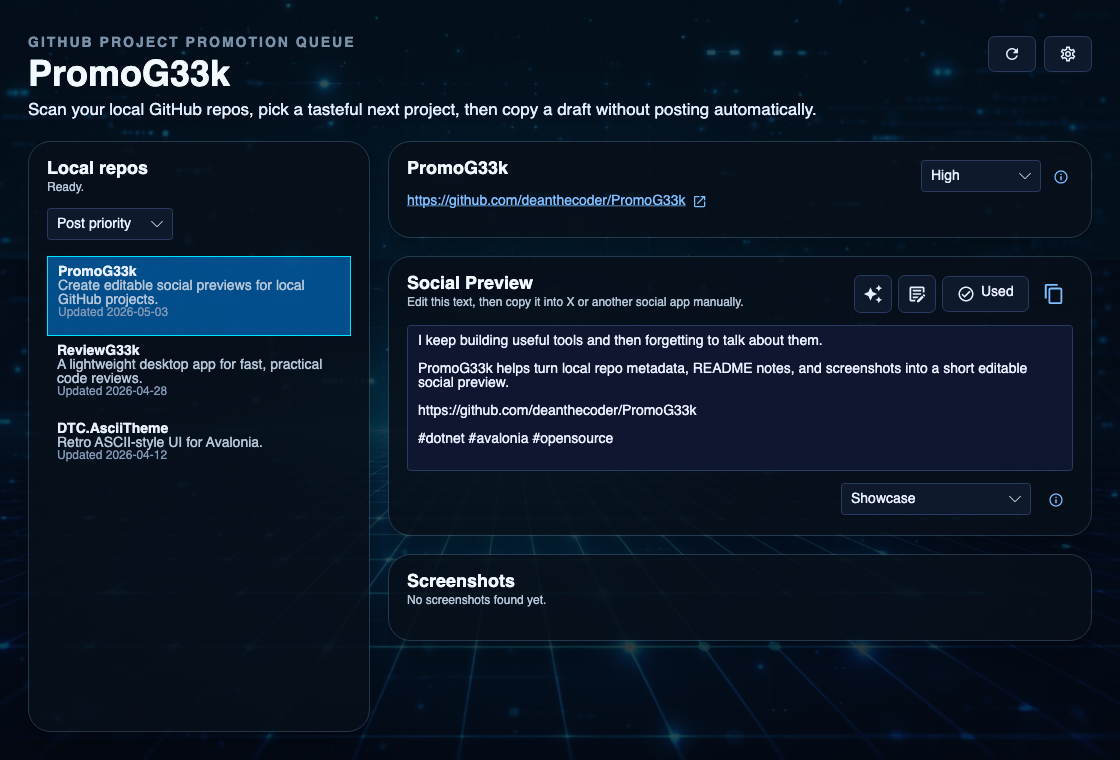
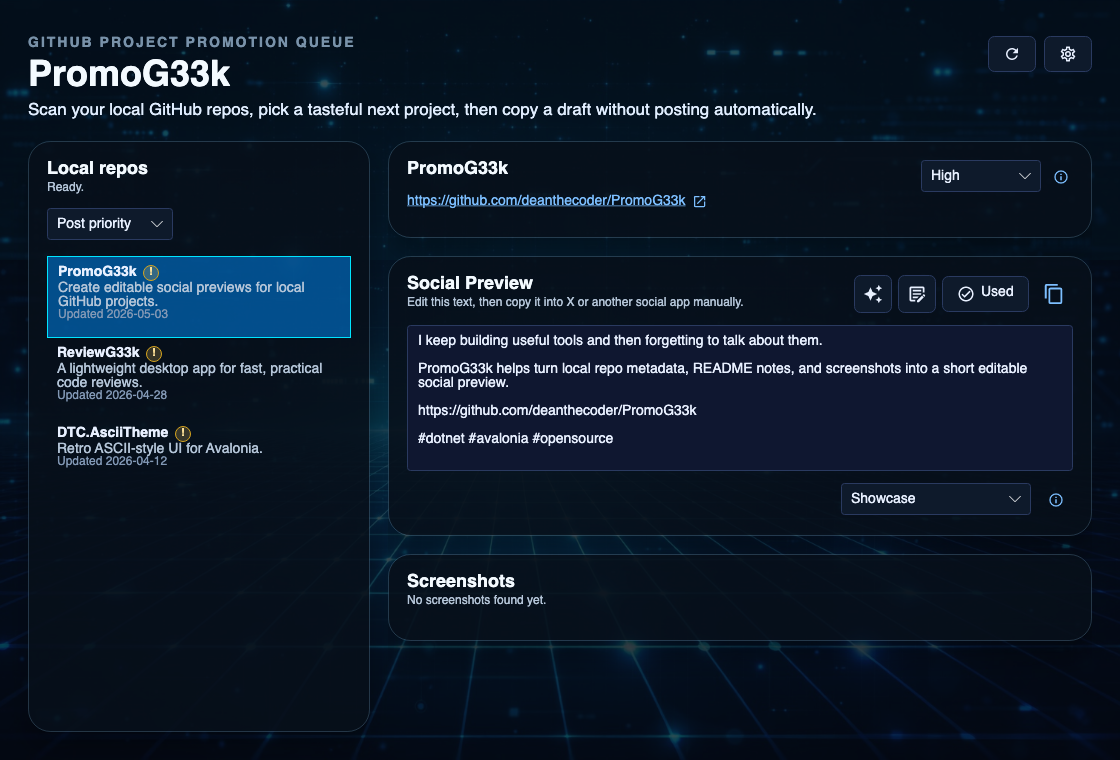
Feature: Add readiness warnings.
We check for missing/empty README, no license, etc.

Changed region(s): [[0.0312, 0.3329, 0.3125, 0.6355]]

diff --git a/PromoG33k.Tests/LocalRepositoryScannerTests.cs b/PromoG33k.Tests/LocalRepositoryScannerTests.cs
@@ -46,6 +46,7 @@ public class LocalRepositoryScannerTests
                 - Review Bitbucket pull requests.
                 - Review local committed changes.
                 ![Main window screenshot](img/ReviewG33k.png)
+                Licensed under the MIT License.
                 """);
             File.WriteAllText(Path.Combine(repositoryDirectory.FullName, "Program.cs"), "class Program { }");
             File.WriteAllText(
@@ -71,6 +72,10 @@ public class LocalRepositoryScannerTests
             Assert.That(
                 repositories[0].ReadmeHighlights,
                 Is.EqualTo(new[] { "Review Bitbucket pull requests.", "Review local committed changes." }));
+            Assert.That(repositories[0].HasReadme, Is.True);
+            Assert.That(repositories[0].ReadmeMentionsLicense, Is.True);
+            Assert.That(repositories[0].IsEmptyRepository, Is.False);
+            Assert.That(repositories[0].HasReadinessWarnings, Is.False);
             Assert.That(repositories[0].Language, Is.EqualTo("C#"));
             Assert.That(repositories[0].IsAvaloniaProject, Is.True);
             Assert.That(repositories[0].IsCrossPlatform, Is.True);
@@ -93,6 +98,30 @@ public class LocalRepositoryScannerTests
             var repositories = scanner.GetRepositories(root);
 
             Assert.That(repositories, Is.Empty);
+        }
+        finally
+        {
+            root.Delete(recursive: true);
+        }
+    }
+
+    [Test]
+    public void GetRepositoriesFlagsEmptyReposWithoutReadmeOrScreenshots()
+    {
+        var root = Directory.CreateTempSubdirectory();
+        try
+        {
+            CreateRepository(root, "EmptyTool", "https://github.com/deanthecoder/EmptyTool.git");
+            var scanner = new LocalRepositoryScanner();
+
+            var repositories = scanner.GetRepositories(root);
+
+            Assert.That(repositories, Has.Count.EqualTo(1));
+            Assert.That(repositories[0].IsEmptyRepository, Is.True);
+            Assert.That(repositories[0].HasReadme, Is.False);
+            Assert.That(repositories[0].ReadinessWarningText, Does.Contain("Repository appears empty."));
+            Assert.That(repositories[0].ReadinessWarningText, Does.Contain("No README found."));
+            Assert.That(repositories[0].ReadinessWarningText, Does.Contain("No screenshots found."));
         }
         finally
         {

diff --git a/PromoG33k.Tests/RepositoryProfileTests.cs b/PromoG33k.Tests/RepositoryProfileTests.cs
@@ -35,4 +35,32 @@ public class RepositoryProfileTests
 
         Assert.That(repository.ShortDescription, Is.EqualTo("Short description."));
     }
+
+    [Test]
+    public void ReadinessWarningsDescribeMissingSharingSignals()
+    {
+        var repository = new RepositoryProfile
+        {
+            HasReadme = true,
+            ReadmeMentionsLicense = false,
+            ScreenshotUrls = []
+        };
+
+        Assert.That(repository.HasReadinessWarnings, Is.True);
+        Assert.That(repository.ReadinessWarningText, Does.Contain("README does not mention a license."));
+        Assert.That(repository.ReadinessWarningText, Does.Contain("No screenshots found."));
+    }
+
+    [Test]
+    public void ReadinessWarningsDoNotDuplicateLicenseWarningWhenReadmeIsMissing()
+    {
+        var repository = new RepositoryProfile
+        {
+            HasReadme = false,
+            ReadmeMentionsLicense = false
+        };
+
+        Assert.That(repository.ReadinessWarningText, Does.Contain("No README found."));
+        Assert.That(repository.ReadinessWarningText, Does.Not.Contain("license"));
+    }
 }

diff --git a/Models/RepositoryProfile.cs b/Models/RepositoryProfile.cs
@@ -36,6 +36,9 @@ public sealed class RepositoryProfile
     public List<string> Topics { get; set; } = [];
     public List<string> ReadmeHeadings { get; set; } = [];
     public List<string> ReadmeHighlights { get; set; } = [];
+    public bool HasReadme { get; set; }
+    public bool ReadmeMentionsLicense { get; set; }
+    public bool IsEmptyRepository { get; set; }
     public string Language { get; set; } = string.Empty;
     public int StargazersCount { get; set; }
     public string SocialPreviewText { get; set; } = string.Empty;
@@ -44,6 +47,26 @@ public sealed class RepositoryProfile
 
     public bool IsExcluded => Priority == RepositoryPriority.Excluded;
     public bool HasMedia => ScreenshotUrls.Count > 0 || DemoUrls.Count > 0;
+    public bool HasReadinessWarnings => ReadinessWarnings.Count > 0;
+
+    public IReadOnlyList<string> ReadinessWarnings
+    {
+        get
+        {
+            var warnings = new List<string>();
+            if (IsEmptyRepository)
+                warnings.Add("Repository appears empty.");
+            if (!HasReadme)
+                warnings.Add("No README found.");
+            else if (!ReadmeMentionsLicense)
+                warnings.Add("README does not mention a license.");
+            if (ScreenshotUrls.Count == 0)
+                warnings.Add("No screenshots found.");
+            return warnings;
+        }
+    }
+
+    public string ReadinessWarningText => string.Join(Environment.NewLine, ReadinessWarnings);
 
     public string PromotionMaterialSummary
     {

diff --git a/Services/LocalRepositoryScanner.cs b/Services/LocalRepositoryScanner.cs
@@ -101,6 +101,7 @@ public sealed class LocalRepositoryScanner
         var readmeFile = GetReadmeFile(repositoryDirectory);
         var readmeText = readmeFile?.Exists == true ? File.ReadAllText(readmeFile.FullName) : string.Empty;
         var isAvaloniaProject = IsAvaloniaProject(repositoryDirectory);
+        var hasReadme = !string.IsNullOrWhiteSpace(readmeText);
         return new RepositoryProfile
         {
             Name = repositoryName,
@@ -114,6 +115,9 @@ public sealed class LocalRepositoryScanner
             ScreenshotUrls = m_readmeMediaExtractor.ExtractScreenshotPaths(readmeText, repositoryDirectory).ToList(),
             ReadmeHeadings = ExtractReadmeHeadings(readmeText).ToList(),
             ReadmeHighlights = ExtractReadmeHighlights(readmeText).ToList(),
+            HasReadme = hasReadme,
+            ReadmeMentionsLicense = hasReadme && MentionsLicense(readmeText),
+            IsEmptyRepository = IsEmptyRepository(repositoryDirectory),
             Language = DetectPrimaryLanguage(repositoryDirectory),
             IsAvaloniaProject = isAvaloniaProject,
             IsCrossPlatform = isAvaloniaProject || MentionsCrossPlatform(readmeText)
@@ -294,6 +298,16 @@ public sealed class LocalRepositoryScanner
                readmeText.Contains("Windows and Linux", StringComparison.OrdinalIgnoreCase) ||
                readmeText.Contains("macOS and Linux", StringComparison.OrdinalIgnoreCase);
     }
+
+    private static bool MentionsLicense(string readmeText) =>
+        !string.IsNullOrWhiteSpace(readmeText) &&
+        (readmeText.Contains("license", StringComparison.OrdinalIgnoreCase) ||
+         readmeText.Contains("licence", StringComparison.OrdinalIgnoreCase));
+
+    private static bool IsEmptyRepository(DirectoryInfo repositoryDirectory) =>
+        !repositoryDirectory
+            .EnumerateFileSystemInfos("*", SearchOption.TopDirectoryOnly)
+            .Any(item => !item.Name.Equals(".git", StringComparison.OrdinalIgnoreCase));
 
     private static bool IsSourceFile(FileInfo file) =>
         !file.FullName.Contains($"{Path.DirectorySeparatorChar}.git{Path.DirectorySeparatorChar}", StringComparison.Ordinal) &&

diff --git a/PromoG33k.Tests/ReadmeMediaExtractorTests.cs b/PromoG33k.Tests/ReadmeMediaExtractorTests.cs
@@ -59,7 +59,7 @@ public class ReadmeMediaExtractorTests
             var screenshotPath = Path.Combine(root.FullName, "img", "ReviewG33k.png");
             File.WriteAllText(screenshotPath, "not a real image");
             const string readme = """
-                ![Main window screenshot](img/ReviewG33k.png)
+                ![Main window screenshot](img/ReviewG33k.png?raw=true "Main window screenshot")
                 ![Logo](img/logo.png)
                 """;
             var extractor = new ReadmeMediaExtractor();

diff --git a/Services/ReadmeMediaExtractor.cs b/Services/ReadmeMediaExtractor.cs
@@ -117,7 +117,7 @@ public sealed class ReadmeMediaExtractor
         if (Uri.TryCreate(url, UriKind.Absolute, out var uri))
             return uri.IsFile ? uri.LocalPath : string.Empty;
 
-        url = url.TrimStart('/');
+        url = StripQueryAndFragment(url).TrimStart('/');
         return Path.GetFullPath(Path.Combine(repositoryDirectory.FullName, url.Replace('/', Path.DirectorySeparatorChar)));
     }
 